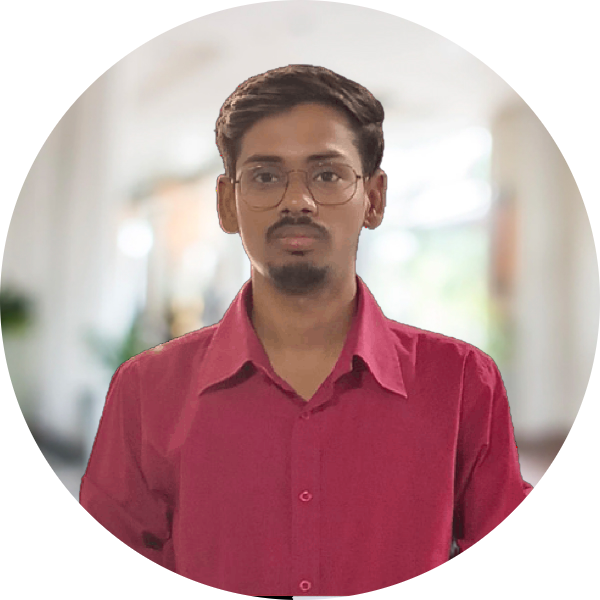
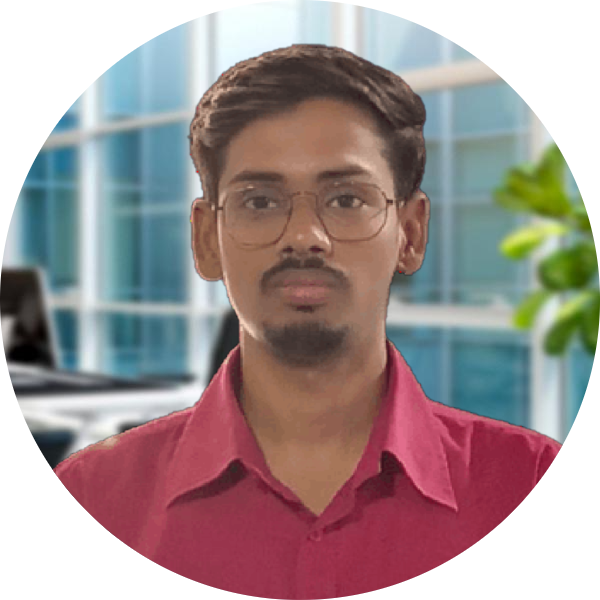
changed assests and aremove animate

diff --git a/src/Component/Navbar/Navbar.jsx b/src/Component/Navbar/Navbar.jsx
@@ -36,9 +36,9 @@ function Navbar(props) {
                     <div className=" text-white lg:flex lg:flex-1 lg:justify-end">
                         {LoginTrue ? <ProfileDropDown />
                             :
-                            props.showSignUp ? <Link to="/signUp" className="text-lg text-white font-semibold leading-6 hover:animate-bounce ">
+                            props.showSignUp ? <Link to="/signUp" className="text-lg text-white font-semibold leading-6 ">
                                 SignUp <span aria-hidden="true">&rarr;</span>
-                            </Link> : <Link to="/logIn" className="text-lg font-semibold leading-6 text-white hover:animate-bounce">
+                            </Link> : <Link to="/logIn" className="text-lg font-semibold leading-6 text-white">
                                 Log in <span aria-hidden="true">&rarr;</span>
                             </Link>
                         }
